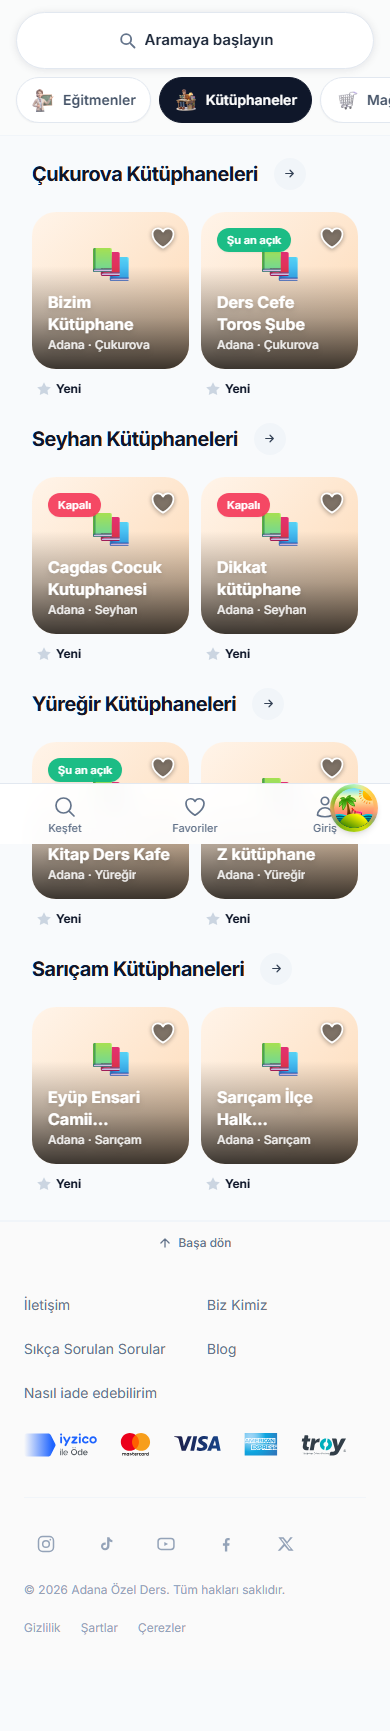
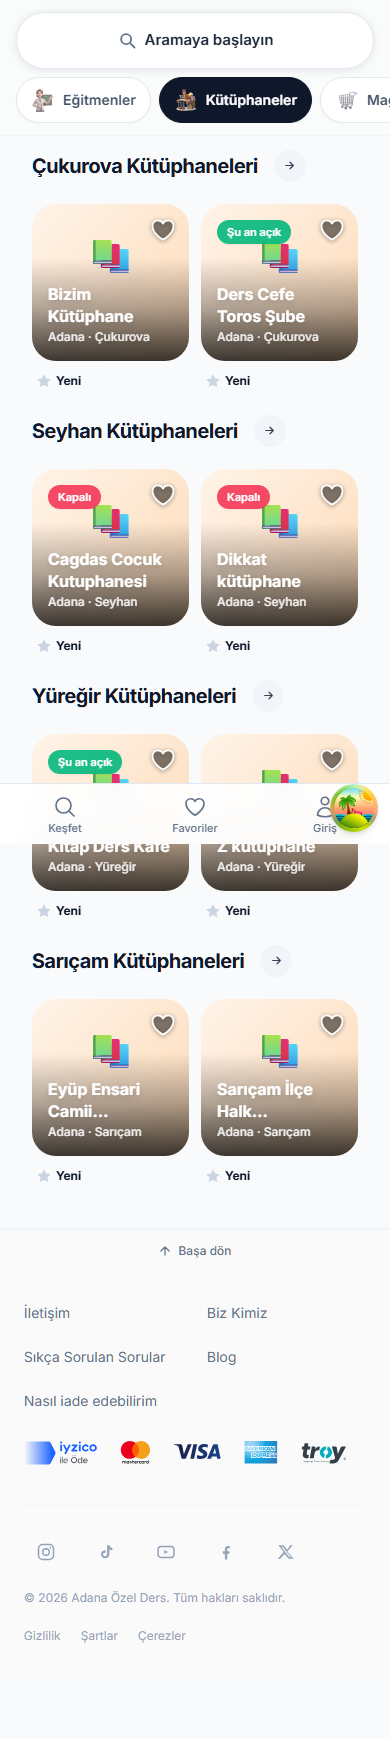
fix(kesif): vitrin ritmi iki yüzeyde AYNI — üst boşluk tek kaynaktan
Kullanıcı: *"kütüphaneler vitrini daha yukarı... her tarafıyla pattern tanımak
senin işin, bu parçaların farklı olduğunu en iyi senin anlaman lazım."*

Haklı. Tek tek gösterilmesini beklemek yerine dikey ritmin tamamını ölçtüm.

ÖLÇÜM (üst barın altı → ilk kuşak başlığı):

    ÖNCE   /              40px (telefon) · 56px (masaüstü)
           /kutuphaneler  24px · 24px
    SONRA  ikisi de       16px · 8px      (referans Airbnb ~27px/390px)

Sebep: boşluk İKİ AYRI yerde tanımlıydı. `Landing` kendi `<main>`inde
`pt-4 md:pt-8` taşıyordu, kütüphane sayfası ise yalnız kabuğun `p-4 sm:p-6`sını
görüyordu. Aynı dilin iki yüzeyi iki farklı ritim kullanıyordu ve ikisi de
referanstan sapıyordu.

Karar kabuğa taşındı: `icerikSiki` propu (`PublicShell` + `DashboardShell`)
yatay padding'i korur, üstte 8px bırakır; dikey ritmi şeritlerin kendisi
taşır. `KesifKabugu` bayrağı iki yüzey için de geçer — sayı tek yerde olduğu
için ayrışamazlar.

## Söylenmeden bulunan ikinci ayrışma

Satır arası boşluk `/`de `space-y-8 md:space-y-12` (32/48px), `/kutuphaneler`de
`space-y-2` (8px)'ti. Bugün ana sayfada tek şerit görünüyor (öne çıkarma paketi
yoksa `FeaturedTutorRow` kendini gizler), yani fark GÖZLE GÖRÜNMÜYORDU — ama
kural ayrışmıştı ve bir reklam paketi yürürlüğe girdiği gün ortaya çıkacaktı.
İkisi `space-y-2`ye indi; şeritler kendi dikey padding'ini zaten taşıyor.

Kapı: nöbetçiler 50 dosya / 572 test, tur 4 rotada yeşil.

diff --git a/frontend/src/components/PublicShell.tsx b/frontend/src/components/PublicShell.tsx
@@ -26,6 +26,7 @@ export function PublicShell({
   altBilgiGizli = false,
   mobilDetayEkrani = false,
   expanded = true,
+  icerikSiki = false,
 }: {
   children: ReactNode;
   /** Navbar ortasına yerleşen içerik (ör. arama pill'i). */
@@ -77,6 +78,19 @@ export function PublicShell({
    * yüzeyde bir şey değişmez.
    */
   expanded?: boolean;
+  /**
+   * KEŞİF YÜZEYİ RİTMİ — vitrin şeritleri üst bara YAKIN başlar.
+   *
+   * `true` iken `main` yatay padding'ini korur ama üstte yalnız 8px bırakır;
+   * dikey ritmi şeritlerin kendisi taşır. Ölçülmüş kusur (10 Eyl 2026,
+   * kullanıcı: *"kütüphaneler vitrini daha yukarı"*): üst barın altındaki
+   * boşluk `/`de 40px (telefon) / 56px (masaüstü), `/kutuphaneler`de 24px'ti
+   * — aynı dilin iki yüzeyi iki farklı ritim kullanıyordu. Referans
+   * (Airbnb, 390px) ~27px.
+   *
+   * Sayı TEK yerde: iki yüzey de bu bayrağı geçtiği için ayrışamazlar.
+   */
+  icerikSiki?: boolean;
 }) {
   /* Yapışkan üst boşluk — `DashboardShell` ile AYNI sözleşme. Yapışkan yan
    * kartlar (ör. eğitmen ilanı) üst boşluklarını sabit bir sayı yerine bu
@@ -127,7 +141,15 @@ export function PublicShell({
           expanded={expanded}
         />
       </div>
-      <main className={mobilDetayEkrani ? "flex-1 p-0 md:p-6" : "flex-1 p-4 sm:p-6"}>
+      <main
+        className={
+          mobilDetayEkrani
+            ? "flex-1 p-0 md:p-6"
+            : icerikSiki
+              ? "flex-1 px-4 pb-8 pt-2 sm:px-6"
+              : "flex-1 p-4 sm:p-6"
+        }
+      >
         {children}
       </main>
       {!altBilgiGizli && <SiteFooter />}

diff --git a/frontend/src/components/DashboardShell.tsx b/frontend/src/components/DashboardShell.tsx
@@ -87,6 +87,19 @@ interface DashboardShellProps {
    * yüzeyde bir şey değişmez.
    */
   expanded?: boolean;
+  /**
+   * KEŞİF YÜZEYİ RİTMİ — vitrin şeritleri üst bara YAKIN başlar.
+   *
+   * `true` iken `main` yatay padding'ini korur ama üstte yalnız 8px bırakır;
+   * dikey ritmi şeritlerin kendisi taşır. Ölçülmüş kusur (10 Eyl 2026,
+   * kullanıcı: *"kütüphaneler vitrini daha yukarı"*): üst barın altındaki
+   * boşluk `/`de 40px (telefon) / 56px (masaüstü), `/kutuphaneler`de 24px'ti
+   * — aynı dilin iki yüzeyi iki farklı ritim kullanıyordu. Referans
+   * (Airbnb, 390px) ~27px.
+   *
+   * Sayı TEK yerde: iki yüzey de bu bayrağı geçtiği için ayrışamazlar.
+   */
+  icerikSiki?: boolean;
 }
 
 export type PanelGenisligi = "dar" | "orta";
@@ -110,6 +123,7 @@ export function DashboardShell({
   genislik,
   mobilDetayEkrani = false,
   expanded = true,
+  icerikSiki = false,
 }: DashboardShellProps) {
   const user = useAuthStore((s) => s.user);
   const panelSekmeleri =
@@ -278,7 +292,9 @@ export function DashboardShell({
             ? "min-h-0 flex-1 overflow-hidden"
             : mobilDetayEkrani
               ? "p-0 md:p-6"
-              : "p-4 sm:p-6"
+              : icerikSiki
+                ? "px-4 pb-8 pt-2 sm:px-6"
+                : "p-4 sm:p-6"
         }
       >
         {genislik ? (

diff --git a/frontend/src/pages/Landing.tsx b/frontend/src/pages/Landing.tsx
@@ -49,7 +49,14 @@ export default function Landing() {
           ]}
         />
       </Seo>
-    <main className="space-y-8 pb-8 pt-4 md:space-y-12 md:pb-24 md:pt-8">
+    {/* Üst boşluk BURADA DEĞİL, kabukta (`icerikSiki`): `/kutuphaneler` ile
+        aynı ritmi paylaşabilmek için tek yerden yönetiliyor. */}
+    {/* Satır arası boşluk `/kutuphaneler` ile AYNI (`space-y-2`): şeritler
+        kendi dikey padding'ini zaten taşıyor, kap üstüne 32px daha eklerse
+        iki yüzey ayrışır. Bugün burada tek şerit görünüyor (öne çıkarma
+        paketi yoksa `FeaturedTutorRow` kendini gizler), yani fark gözle
+        görünmüyordu — ama kural ayrışmıştı. */}
+    <main className="space-y-2 pb-8 md:pb-24">
       {/* ── EĞİTMENLER: TEK kuşak ──────────────────────────────────────────
           Burada eskiden "TYT'ye hazırlık" / "YKS Hazırlık" / "AYT'ye
           hazırlık" / "Ortaokul Matematik" / "LGS Matematik" diye SABİT

diff --git a/frontend/src/components/kesif/KesifKabugu.tsx b/frontend/src/components/kesif/KesifKabugu.tsx
@@ -322,6 +322,7 @@ export function KesifKabugu() {
       mobilUst={mobilUst}
       mobilSade={mobil}
       expanded={expanded}
+      icerikSiki
     >
       {govde}
     </DashboardShell>
@@ -332,6 +333,7 @@ export function KesifKabugu() {
       mobilUst={mobilUst}
       mobilSade={mobil}
       expanded={expanded}
+      icerikSiki
     >
       {govde}
     </PublicShell>
